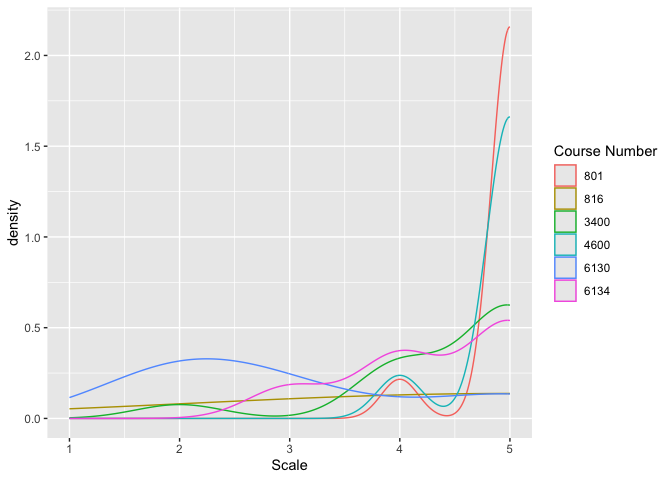
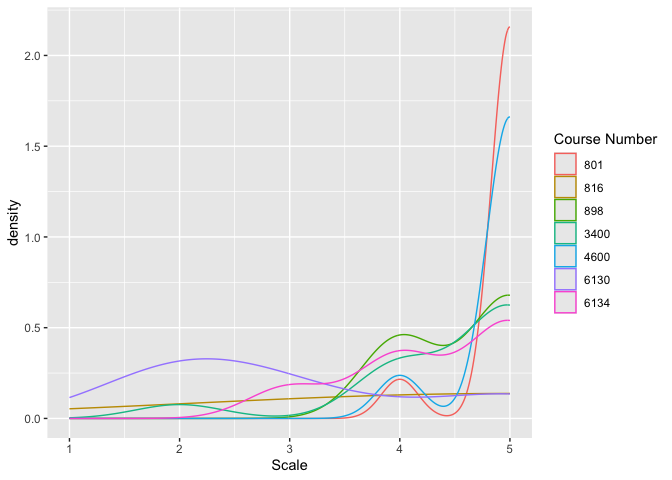
Teaching updated with current students

diff --git a/teaching.md b/teaching.md
@@ -13,15 +13,11 @@ output:
 
 
 Daniel Fuller, Ph.D.  
-Canada Research Chair in Population Physical Activity  
-Assistant Professor  
-School of Human Kinetics and Recreation   
-Physical Education Building PE 2024 Memorial   
-University of Newfoundland St. John’s, NL  
-A1C 5S7  
-Tel: (709) 864-7270    
-E-mail: dfuller@mun.ca    
-Web: [http://www.walkabilly.ca/](http://www.walkabilly.ca/)  
+Associate Professor
+Department of Community Health and Epidemiology
+College of Medicine
+University of Saskatchewan
+E-mail: daniel.fuller@usask.ca
 
 # Table of Contents 
 
@@ -44,17 +40,21 @@ My primary intention as a teacher is to create a learning environment in which m
 To accomplish my teaching and learning outcomes I combine technological innovation, inspiring in-class interactive learning and problem based learning. Technological innovations in my courses include podcasting lectures, online forums and mobile availability of course material. Technology, however, cannot be a substitute for human interaction. My class presentations encourage interactions and critical reflection with and among students, providing conceptual brainteasers for students’ reflection to conclude each class. Students need to recognize that universities are integral community members. Through problem based learning opportunities, students are challenged to engage their knowledge and understanding through reflective practice. Problem based learning allows students to explore and learn firsthand the principles of their discipline.
 
 To assess progress toward my teaching and learning outcomes I draw on students’ evaluations, fellow teachers’ peer evaluations, and my students’ accomplishments in major scholarship competitions. These assessment strategies encourage continuous development of my teaching based on students’ learning. A reflexive approach to teaching and learning demands that I remain self-critical and adapt to meeting the changing needs, competencies, and hopes of my students, the fundamental purpose of my teaching practice.
+
 Teaching and learning create remarkable moments in our human experience. From watching the joy of a child ride a bike for the first time to that “aha” moment when a student finally “gets” a challenging concept, such learning moments imprint themselves in our memory. For me, teaching involves that wonder. The hard work of remote and immediate preparation in teaching is transformed into the joy of these indelible learning moments. Although these moments are rare, they are transformative. I am motivated and strive to create such opportunities in each of my courses so that students can experience and prove to themselves they are more and can become more than they have previously believed.
 
 # Teaching Responsibility
 
 ## <span style="color:#81112c">Courses Taught</span>
 
-I have taught 14 different courses over the course of my career. I have developed 3 new courses, one during my postdoctoral fellowship (Population Health Intervention Research), one during my limited term appointment (Social Epidemiology), and one in my position at Memorial University (Computer Applications for Physical Activity Measurement and Intervention). I am committed to open learning and develop public websites for all of my courses. These websites allow students to access the course outlines and some of the content for my courses prior to taking the course. 
+I have taught 14 different courses over the course of my career. I have developed 5 new courses, one during my postdoctoral fellowship (Population Health Intervention Research), one during my limited term appointment (Social Epidemiology),  one in my position at Memorial University (Computer Applications for Physical Activity Measurement and Intervention), and two at USask in Community Health and Epidemiology (Epidemiology 2 and Data Science for Epidemiology. I am committed to open learning and develop public websites for all of my courses. These websites allow students to access the course outlines and some of the content for my courses prior to taking the course. 
 
 | Institution | Year | Term | Course | Topic | Role |
 |-------------|------|------|--------|-------|------|
-| University of Saskatchewan  | 2021 | Winter | CHEP 811 | Professional Research Skills in Community and Population Health Research | Co-instructor |
+| University of Saskatchewan  | 2025 | Winter | CHEP 898 | Data Science for Epidemiology | Instructor |
+|   | 2025 | Winter | CHEP 990 | Graduate Seminar | Instructor |
+|   | 2024 | Fall | CHEP 898 | Introduction to R | Instructor |
+|   | 2024 | Fall | CHEP 990 | Graduate Seminar | Instructor |
 |   | 2024 | Winter | CHEP 990 | Graduate Seminar | Instructor |
 |   | 2024 | Winter | CHEP 801 | Epidemiology 2 | Instructor |
 |   | 2023 | Fall | CHEP 990 | Graduate Seminar | Instructor |
@@ -92,6 +92,18 @@ I have taught 14 different courses over the course of my career. I have develope
 |  | 2014 | Fall | CHEP 898 | Population Health Intervention Research | Instructor | 
 | Université de Montréal | 2011 | Winter | MSO 6068c | Multilevel Modeling | Co-Instructor | 
 
+
+### <span style="color:#81112c">CHEP 898 Data Science for Epidemiology</span>
+##### [https://github.com/walkabilly/data_science_for_epi_usask](https://github.com/walkabilly/data_science_for_epi_usask) 
+
+This course introduces students to the principles of data science as applied to epidemiological research. Emphasis is on data wrangling, version control with Git and GitHub, high-performance computing, and machine learning techniques. It also compares traditional epidemiologic analysis approaches with contemporary machine learning methods.
+
+### <span style="color:#81112c">CHEP 898 Intro to R</span>
+##### [https://github.com/walkabilly/intro_to_r_crsu](https://github.com/walkabilly/intro_to_r_crsu)
+
+Students, faculty, and staff in the health sciences, community health, and epidemiology will learn to use R, a statistical software frequently used in health sciences research. This course provides an overview on data entry, data management and manipulation, and visualization using R and also covers basic statistical applications, including linear regression, and logistic regression. To demonstrate proficiency, students will be given a dataset with steps to follow and analyze based on the learning outcomes.
+
+This class is expected to help students build capacity with R and the research process. They can begin to consider how to use R to apply their biostatistics knowledge to their graduate thesis or other research.
 
 ### <span style="color:#81112c">CHEP 801 Epidemiology 2</span>
 
@@ -174,7 +186,7 @@ I have also developed training in [statistics](https://github.com/TeamINTERACT/o
 
 I both supervise graduate students but also hire and train numerous highly qualified personnel from various disciplines including HKR, public health, computer science, and geography. I have been a committee member for a number of PhD students at various institutions across Canada. Notably, Dr. Henry Luan, my former postdoctoral fellow is a currently an assistant professor in Geography at the University of Oregon. One of my MSc students has received CIHR funding and another was shortlist for CIHR funding. One previous lab member has is currently a faculty member at the University of Copenhagen. Another lab member is conducting a postdoctoral fellowship at the University of Toronto, while another has gone on to a successful career at Cisco Systems in Ottawa. 
 
-### <span style="color:#81112c">Undergraduate Student Supervision</span>
+## <span style="color:#81112c">Undergraduate Student Supervision</span>
 
 | Name | Program | Project | Term |
 |------|--------|--------|------|
@@ -192,41 +204,59 @@ I both supervise graduate students but also hire and train numerous highly quali
 | Alyssa Milley | Human Kinetics and Recreation | Undergraduate Honours | 2017 |
 | Hilary Gosse | Human Kinetics and Recreation | Undergraduate Honours | 2017 |
 
-### <span style="color:#81112c">Graduate Student Supervision</span>  
+## <span style="color:#81112c">Graduate Student Supervision</span>  
 
-* 2021: Rachel Cowitz. Masters of Public Health Practicum. Supervisor. School of Human Kinetics and Recreation. Memorial University.
-* 2020: Ryan Ellis. Changes in Step Count Accuracy of Wearable Devices with the Continuous Development of New Technology. MSc Program. Supervisor. School of Human Kinetics and Recreation. Memorial University.
-* 2020: Summayah Mussa. Comparing Accelerometer Processing Metrics for Physical Activity Classification Accuracy using Machine Learning Methods. MSc Program. Supervisor. School of Human Kinetics and Recreation. Memorial University 
-* 2020: Asia Holloway. Masters of Public Health Practicum. Supervisor. School of Human Kinetics and Recreation. Memorial University 
-* 2019: Rebecca Maher. Exercise interventions and fertility outcomes for women experiencing obesity and infertiliy: a narrative review. MSc Program. Supervisor. School of Human Kinetics and Recreation. Memorial University.
-* 2019: Jonathan Slaney. Examining the association between cycling infrastructure exposure and physical activity: A Natural experiment study in Victoria, Canada. MSc Program. Supervisor. School of Human Kinetics and Recreation. Memorial University 
-* 2019: SeyedJavad KhataeiPour. Superior Performance of Machine Learning Algorithms in Metabolic Equivalent (MET) Prediction Using Cell Phone Accelerometer Data. MSc Co-Op. Supervisor. School of Human Kinetics and Recreation. Memorial University 
-* 2018: Machel Rayner. Masters of Public Health Practicum. Supervisor. School of Human Kinetics and Recreation. Memorial University 
-* 2018: Ali Alfosool.  Road Importance Using Complex-Networks, Graph Reduction & Interpolation. PhD Program. Committee Member. Department of Computer Science. Memorial University. 
-* 2017: Kassia Orychock. Association between BMI and WalkScore, Dining and Drinking Score and Grocery Score in a multi-city sample of adults: A cross sectional analysis. MSc Program. Supervisor. School of Human Kinetics and Recreation. Memorial University 
-* 2017: Bo Simango. Improving the accuracy of activity intensity classification using machine learning and commercial wearable device data. MSc Program. Supervisor. School of Human Kinetics and Recreation. Memorial University 
-* 2017: Melissa Tobin. Examining the association between cycling infrastructure and cycling: Baseline results from INTERACT Victoria. MSc Program. Supervisor. School of Human Kinetics and Recreation. Memorial University
-* 2017: Nathan Taylor. Masters of Public Health Practicum. Supervisor. Neighbourhood Active Living Potential on the Avalon Peninsula. Memorial University
-* 2014:	Satyadeva Challa. Masters of Public Health Practicum. Supervisor. Stress Mapping and Network Connectivity Analysis. School of Public Health. University of Saskatchewan.
-* 2013:	Anna Chen. Masters of Public Health Practicum. Supervisor. Analyzing road surface conditions, time of the day, and road structural factors associated with bicycle collisions from 2000 to 2010 in Saskatoon, Saskatchewan. School of Public Health. University of Saskatchewan.
+#### <span style="color:#81112c"> MSc Supervisor</span>  
+1. __Patricia Salazar__. Ongoing. The Role of Mode of Transportation in Physical Activity: Socioeconomic Influences on Active Mobility in Urban Environments.
+1. __Bernard Asante__. Ongoing. Evaluating wearable and smartphone accelerometer data for physical activity monitoring using data imputation and machine learning techniques.
+1. __Katrina Pearman__. Ongoing. Examination of commercial wearable devices for children and youth who use manual wheelchairs. 
+1. __Meherun Nahar__. Ongoing. Association Between Public Transit Use and Happiness Across Four Canadian Cities: A Multilevel Analysis Using Longitudinal Data. 
+1. __Summayah Mussa__. 2020. Comparing Accelerometer Processing Metrics for Physical Activity Classification Accuracy using Machine Learning Methods. MSc Program. Supervisor. School of Human Kinetics and Recreation. Memorial University 
+3. __Kole Phillips__. 2019. Novel measures of physical activity: String Analysis of Behavior Log Elements (StABLE). MSc Program. Co-Supervisor with Dr. Kevin Stanley. Department of Computer Science. University of Saskatchewan.
+4. __Rebecca Maher__. 2019. Exercise interventions and fertility outcomes for women experiencing obesity and infertiliy: a narrative review. MSc Program. Supervisor. School of Human Kinetics and Recreation. Memorial University.
+5. __Jonathan Slaney__. 2019. Examining the association between cycling infrastructure exposure and physical activity: A Natural experiment study in Victoria, Canada. MSc Program. Supervisor. School of Human Kinetics and Recreation. Memorial University 
+6. __Kassia Orychock__. 2017. Association between BMI and WalkScore, Dining and Drinking Score and Grocery Score in a multi-city sample of adults: A cross sectional analysis. MSc Program. Supervisor. School of Human Kinetics and Recreation. Memorial University 
+7. __Bo Simango__. 2017. Improving the accuracy of activity intensity classification using machine learning and commercial wearable device data. MSc Program. Supervisor. School of Human Kinetics and Recreation. Memorial University 
+8. __Melissa Tobin__. 2017. Examining the association between cycling infrastructure and cycling: Baseline results from INTERACT Victoria. MSc Program. Supervisor. School of Human Kinetics and Recreation. Memorial University
 
-### <span style="color:#81112c">Committee Member</span>  
+#### <span style="color:#81112c">PhD Supervisor</span>  
+1. __Tyler Pittman__. Ongoing. Changes in ownership and super-organization of American nursing homes in hospital referral region during the COVID-19 pandemic.
+1. __Wendy Verity__. 2021. Equitable Access to Forever in Motion Programs in Saskatchewan. PhD Program. Committee Member. Department of Community Health and Epidemiology. University of Saskatchewan.
+1. __Shelby Sturrock__. 2021. The Impact of COVID-19 restrictions on Physical Activity in Canada. PhD Program. Co-Supervisor with Dr. Dionne Gesink. Dalla Lana School of Public Health. University of Toronto. 
+2. __Ryan Collins__. 2020. Associations between Circadian Rhythm, Physical Activity, Mood, and Cognitive Function During the First Year of Treatment for Breast Cancer. PhD Program. Co-Supervisor with Dr. Sheila Garland. Department of Psychology. Memorial University. 
+3. __Ali Alfosool__. 2018. ALF-Score: A Predictive, Personalized, Transferable and Network-Based Walkability Scoring System. PhD Program. Co-Supervisor with Dr. Yuanzhu Chen. Department of Computer Science. Memorial University. 
 
-* 2020: Ryan Collins. Associations between Circadian Rhythm, Physical Activity, Mood, and Cognitive Function During the First Year of Treatment for Breast Cancer. Doctor of Psychology. Committee Member. Department of Psychology. Memorial University. 
-* 2019: Kole Phillips. Novel measures of physical activity: String Analysis of Behavior Log Elements (StABLE). MSc Program. Committee Member. Department of Computer Science. University of Saskatchewan. 2019.
-* 2018: Pablo Navarro. The Government of Newfoundland and Labrador’s implementation of a “Health in All Policies”. PhD Program. Committee Member. Faculty of Medicine, Division of Community Health and Humanities. Memorial University. 
-* 2017: Se’era Anstruthers. PhD Program. Committee Member. The Influence of Socioeconomic Factors and Location on the Impact of Children in Healthy Start-Depart Sante. Department of Nutrition. University of Saskatchewan. 
-* 2016: Adriana Fonseca. PhD Program. Committee Member.  Physical activity and chronic back disorders in Canadian adults. Department of Community Health and Epidemiology. University of Saskatchewan.
-* 2016: Kate Hosford. MSc Program. Committee Member. Impacts of a Public Bike Share Program in Vancouver, BC: Changes in Population Cycling Levels and Program Perceptions and Attitudes. Faculty of Health Sciences, Simon Fraser University.
-* 2015: Larisa Lotoski. PhD Program. Committee Member. A 4-season longitudinal study examining the association between seasonality and sedentary behaviour in 8-11 year old Canadian children. Department of Community Health and Epidemiology. University of Saskatchewan. 
-* 2013:	Lisa Thurairasu. MSc Program. Committee Member. Examining Individual and Area Level Income Inequalities in Urban Saskatchewan: A Case of Diabetes. Department of Community Health and Epidemiology. University of Saskatchewan.
-* 2011:	Mariève Thetreault-Deslands. MPH Program. Committee Member. Utilitarian walking and diabetes: a cross-sectionnal study in Montreal, Canada. Departement de Medecine sociale et preventive. Faculte de Medecine. Universite de Montreal.
-* 2010:	Geneviève Boily. MPH Program. Committee Member. L’association entre l’utilisation du transport actif et l’etat de sante auto-rapporte chez des adultes montrealais. Departement de Medecine sociale et preventive. Faculte de Medecine. Universite de Montreal.
+#### <span style="color:#81112c">Practicum Supervisor</span>  
+1. __Tori Carter__. 2022. Masters of Public Health Practicum. Supervisor. School of Human Kinetics and Recreation. Memorial University. 
+1. __Stephanie Liu__. 2022. Masters of Public Health Practicum. Supervisor. School of Public Health. University of Saskatchewan. 
+1. __Rachel Cowitz__. 2021. Masters of Public Health Practicum. Supervisor. School of Human Kinetics and Recreation. Memorial University.
+1. __Azadeh Gharedaghi__. 2021. Masters of Public Health Practicum. Supervisor. School of Public Health. University of Saskatchewan.
+2. __Asia Holloway__. 2020. Masters of Public Health Practicum. Supervisor. School of Human Kinetics and Recreation. Memorial University 
+3. __SeyedJavad KhataeiPour__. 2019. Computer Science Co-Op. Supervisor. School of Human Kinetics and Recreation. Memorial University 
+4. __Machel Rayner__. 2018. Masters of Public Health Practicum. Supervisor. School of Human Kinetics and Recreation. Memorial University 
+5. __Nathan Taylor__. 2017. Masters of Public Health Practicum. Supervisor. Neighbourhood Active Living Potential on the Avalon Peninsula. Memorial University
+6. __Satyadeva Challa__. 2014. Masters of Public Health Practicum. Supervisor. Stress Mapping and Network Connectivity Analysis. School of Public Health. University of Saskatchewan.
+7. __Anna Chen__. 2013. Masters of Public Health Practicum. Supervisor. Analyzing road surface conditions, time of the day, and road structural factors associated with bicycle collisions from 2000 to 2010 in Saskatoon, Saskatchewan. School of Public Health. University of Saskatchewan.
 
-### <span style="color:#81112c">Post Doctoral Fellows</span>
+#### <span style="color:#81112c">Committee Member</span>  
+
+##### <span style="color:#81112c">MSc</span>  
+1. __Sara Bree__. 2016. MSc Program. Committee Member. Transit Accessibility: Modelling Ridership in Saskatoon’s Planned BRT System. Department of Geography and Planning. University of Saskatchewan.
+2. __Kate Hosford__. 2016. MSc Program. Committee Member. Impacts of a Public Bike Share Program in Vancouver, BC: Changes in Population Cycling Levels and Program Perceptions and Attitudes. Faculty of Health Sciences, Simon Fraser University.
+3. __Lisa Thurairasu__. 2013. MSc Program. Committee Member. Examining Individual and Area Level Income Inequalities in Urban Saskatchewan: A Case of Diabetes. Department of Community Health and Epidemiology. University of Saskatchewan.
+4. __Mariève Thetreault-Deslands__. 2011. MPH Program. Committee Member. Utilitarian walking and diabetes: a cross-sectionnal study in Montreal, Canada. Departement de Medecine sociale et preventive. Faculte de Medecine. Universite de Montreal.
+5. __Geneviève Boily__. 2010. MPH Program. Committee Member. L’association entre l’utilisation du transport actif et l’etat de sante auto-rapporte chez des adultes montrealais. Departement de Medecine sociale et preventive. Faculte de Medecine. Universite de Montreal.
+
+##### <span style="color:#81112c">PhD</span>  
+1. __Se’era Anstruthers__. 2017. PhD Program. Committee Member. The Influence of Socioeconomic Factors and Location on the Impact of Children in Healthy Start-Depart Sante. Department of Nutrition. University of Saskatchewan. 
+2. __Adriana Fonseca__. 2016. PhD Program. Committee Member.  Physical activity and chronic back disorders in Canadian adults. Department of Community Health and Epidemiology. University of Saskatchewan.
+3. __Larisa Lotoski__. 2015. PhD Program. Committee Member. A 4-season longitudinal study examining the association between seasonality and sedentary behaviour in 8-11 year old Canadian children. Department of Community Health and Epidemiology. University of Saskatchewan. 
+
+## <span style="color:#81112c">Post Doctoral Fellows</span>
 
 | Name | Program  | Completion | Institution | 
 |------|---------|------------|-------------| 
+| Hiroshi Mamiya | Post Doctoral Fellow | Ongoing | University of Saskatchewan | 
 | Hui (Henry) Luan | Post Doctoral Fellow | 2018 | Memorial University | 
 
 ### <span style="color:#81112c">Research Assistants</span>  
